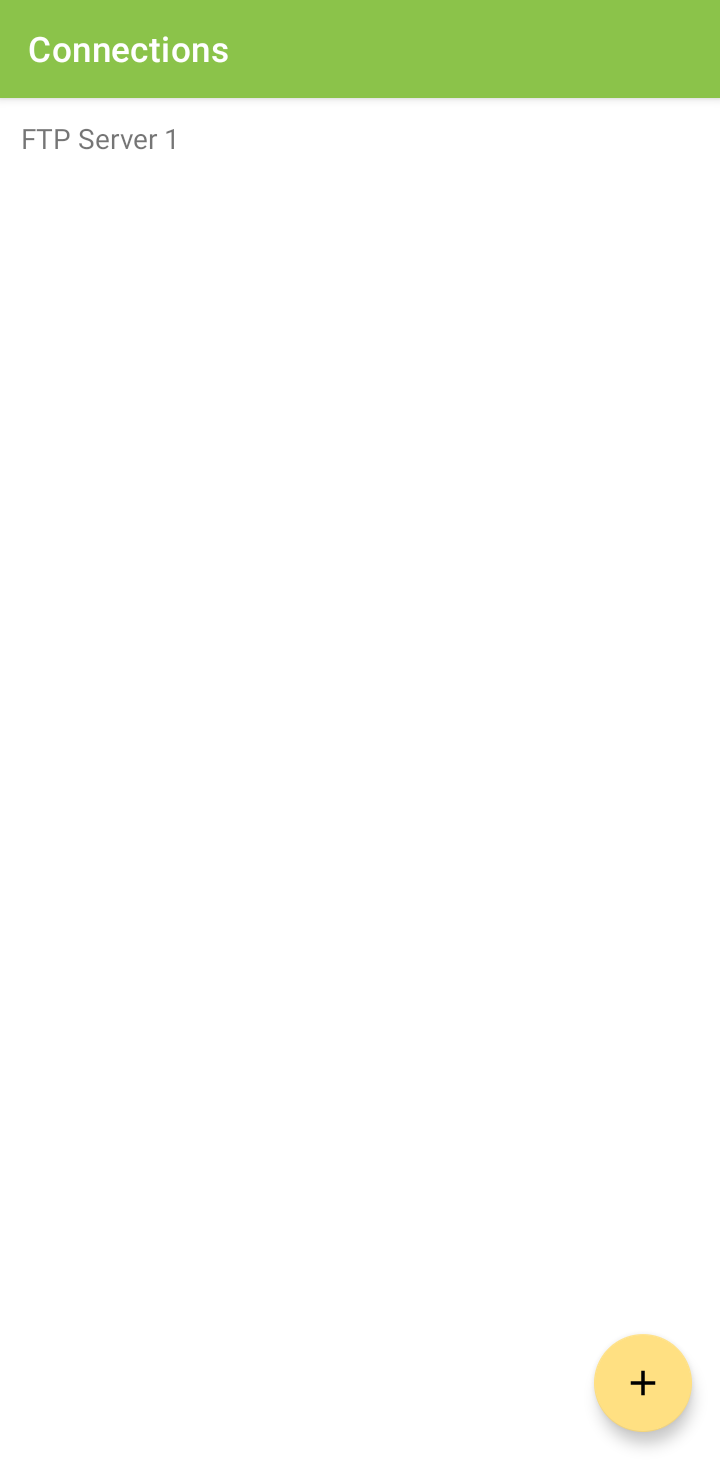
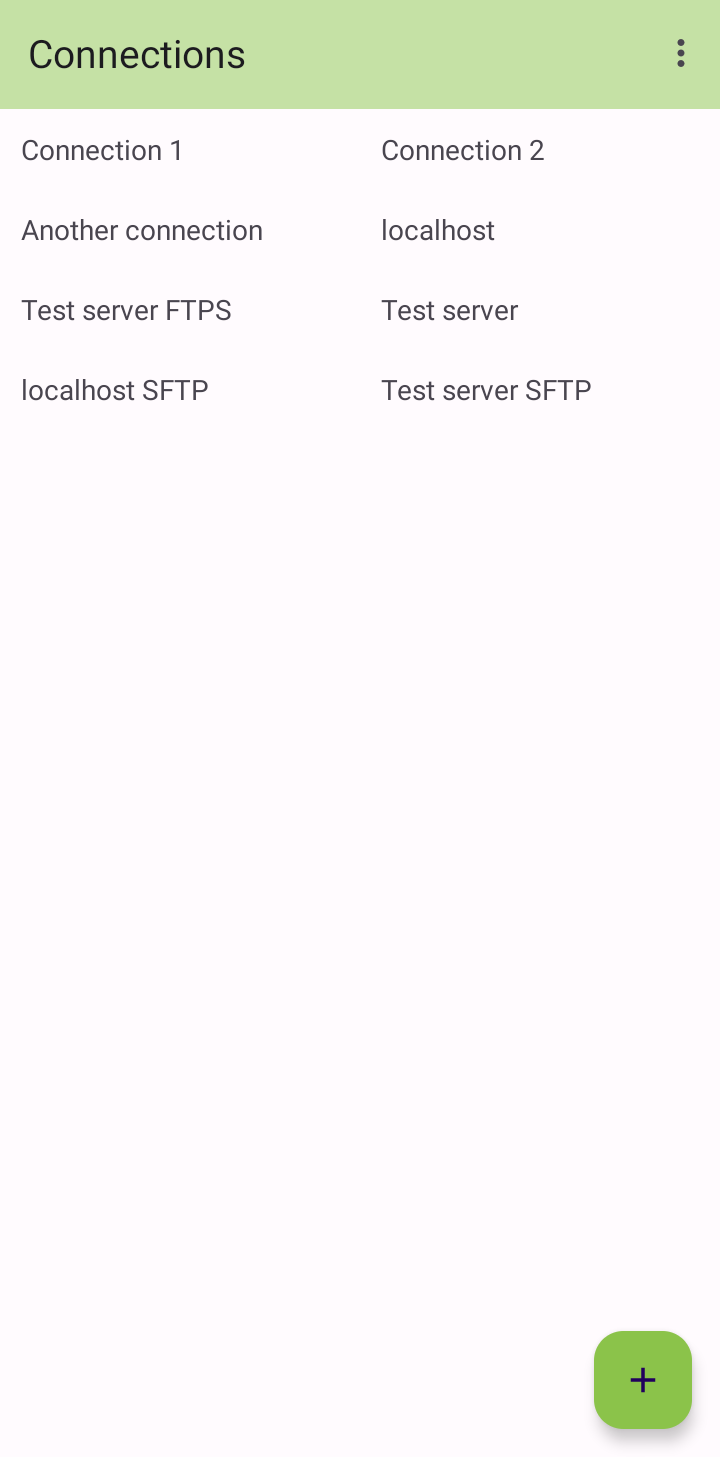
Update screenshots

diff --git a/README.md b/README.md
@@ -20,4 +20,4 @@ and [SSHJ](https://github.com/hierynomus/sshj/) for SFTP.
 * view file and directory properties
 * rename files and directories
 
-<img src="https://codeberg.org/qwerty287/ftpclient/raw/branch/main/fastlane/metadata/android/en-US/images/phoneScreenshots/001.png" width="300"> <img src="https://codeberg.org/qwerty287/ftpclient/raw/branch/main/fastlane/metadata/android/en-US/images/phoneScreenshots/002.png" width="300">
+<img src="https://codeberg.org/qwerty287/ftpclient/raw/branch/main/fastlane/metadata/android/en-US/images/phoneScreenshots/001.png" width="300"> <img src="https://codeberg.org/qwerty287/ftpclient/raw/branch/main/fastlane/metadata/android/en-US/images/phoneScreenshots/002.png" width="300"> <img src="https://codeberg.org/qwerty287/ftpclient/raw/branch/main/fastlane/metadata/android/en-US/images/phoneScreenshots/003.png" width="300"> <img src="https://codeberg.org/qwerty287/ftpclient/raw/branch/main/fastlane/metadata/android/en-US/images/phoneScreenshots/004.png" width="300">
